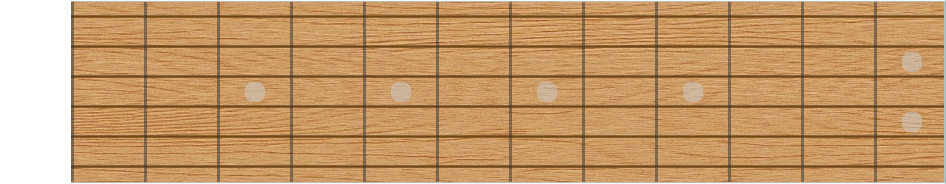
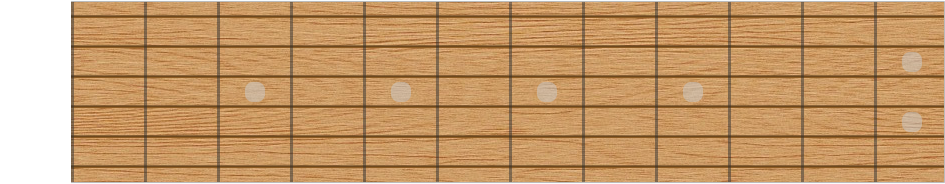
display selected notes name

Changed region(s): [[0.982, 0.0272, 1.0, 0.9783]]

diff --git a/src/ChordsSearch.jsx b/src/ChordsSearch.jsx
@@ -1,4 +1,4 @@
-import React, {Component, useMemo} from 'react'
+import React, { Component } from 'react'
 import { SearchCheckboxes } from './SearchCheckboxes'
 import { GuitarNeckBasic } from './GuitarNeckBasic'
 import { SearchChordsToFretApi } from './SearchChordsToFretApi'
@@ -122,6 +122,7 @@ class ChordDetails extends React.Component {
       const rows = MakeChordDetails (this.props.chord)
       const special = ChordExplanations(this.props.chord.split(' ')[1])
       return  <React.Fragment>
+              <h2 className='mt-4 text-center'>{this.props.chord}</h2>
               <table className="table mt-4">
                 <thead>
                   <tr>
@@ -147,7 +148,7 @@ export class ChordsSearch extends React.Component {
       selectedNotes: [],
       selectedNeckNotes: {1: null, 2: null, 3: null, 4: null, 5: null, 6: null},
       selectedChord: [],
-      fretboardMode: false
+      fretboardMode: true
     })
     this.handleChange = this.handleChange.bind(this)
     this.handleNeckClick = this.handleNeckClick.bind(this)
@@ -201,26 +202,32 @@ export class ChordsSearch extends React.Component {
     } else {
       selectedNotes = this.state.selectedNotes
     }
+    const noteLabelStyle = this.state.fretboardMode ? 'not-selected' : 'selected'
+    const fretboardLabelStyle = this.state.fretboardMode ? 'selected' : 'not-selected'
     const apiResultStyle = this.state.fretboardMode ? 'mini-display' : 'max-display'
     return <div className='container chords-search-result'>
-      <div className='search-checkboxes'>
-        {!this.state.fretboardMode && <SearchCheckboxes onClick={this.handleRemoveClick} selectedNotes={this.state.selectedNotes} onChange={this.handleChange}></SearchCheckboxes>}
-      </div>
-      <div className='search-container'>
-        <div className='search-note-left-side'>
-          <div className='fretboard-display-checkbox'>
-            <input onChange={this.handleCheck} className="form-check-input" checked={this.state.fretboardMode} type="checkbox" value="" id="flexCheckDefault" name='display-fretboard'/>
-            <label htmlFor='display-fretboard'>Fretboard</label>
-          </div>
-            <div className='chords-search-result'>
-            {this.state.fretboardMode && <GuitarNeckBasic selectedNotes={this.state.selectedNotes} onChange={this.handleNeckClick}/>}
-            <SearchChordsToFretApi style={apiResultStyle} selectedNotes={selectedNotes} onClick={this.handleClick} fretboardMode={this.state.fretboardMode}/>
+            <div className='notes-checkbox-container'>
+              <label className={fretboardLabelStyle} id='notes-checkbox-label' htmlFor="notes-checkbox">FRETBOARD</label>
+              <label className="switch">
+                <input type="checkbox" className="switch" id="notes-checkbox" name="notes-checkbox" checked={!this.state.fretboardMode} onChange={this.handleCheck}></input>
+                <span className="slider round"></span>
+              </label>
+              <label className={noteLabelStyle} id='notes-checkbox-label' htmlFor="notes-checkbox">NOTES</label>
             </div>
+          <div className='search-checkboxes'>
+            {!this.state.fretboardMode && <SearchCheckboxes onClick={this.handleRemoveClick} selectedNotes={this.state.selectedNotes} onChange={this.handleChange}></SearchCheckboxes>}
           </div>
-          <div className='search-note-left-side'>
-            <ChordDetails chord={this.state.selectedChord}/>
-          </div>
+          <div className='search-container'>
+            <div className='search-note-left-side'>
+                <div className='chords-search-result'>
+                {this.state.fretboardMode && <GuitarNeckBasic selectedNotes={this.state.selectedNotes} onChange={this.handleNeckClick}/>}
+                <SearchChordsToFretApi style={apiResultStyle} selectedNotes={selectedNotes} onClick={this.handleClick} fretboardMode={this.state.fretboardMode}/>
+                </div>
+              </div>
+              <div className='search-note-left-side mb-4'>
+                <ChordDetails chord={this.state.selectedChord}/>
+              </div>
+            </div>
         </div>
-    </div>
   }
 }

diff --git a/src/GuitarNeckBasic.jsx b/src/GuitarNeckBasic.jsx
@@ -1,5 +1,5 @@
 import React from 'react'
-import { NOTES, GUITAR_TUNING, SCALES_LIST, INTERVALS_NAMES } from './data'
+import { NOTES, GUITAR_TUNING } from './data'
 import './stylesheets/guitar_neck.css'
 import { TuningDropDown } from './TuningDropDown'
 
@@ -31,12 +31,15 @@ class NotesRows extends React.Component {
     const selected_note_index = this.props.guitarString
     const ordered_notes = [...NOTES.slice(selected_note_index), ...NOTES.slice(0, selected_note_index), NOTES[selected_note_index]]
     const rows = []
-    // const selectedNote = this.props.selectedNotes
     ordered_notes.forEach((note, index) => {
       const key = `${note}-${index}`
       const id = `${note},${this.props.guitar_string_num},${index}`
       const style = this.state.selectedNote === id ? 'note-selected' : ''
-      rows.push(<th id={id} className={style} key={key} onClick={this.handleClick}>O</th>)
+      if (id === this.state.selectedNote) {
+        rows.push(<th id={id} className={style} key={key} onClick={this.handleClick}>{note}</th>)
+      } else {
+        rows.push(<th id={id} className={style} key={key} onClick={this.handleClick}>O</th>)
+      }
     })
     return <tbody>
           <tr>

diff --git a/src/stylesheets/chords_search.css b/src/stylesheets/chords_search.css
@@ -8,11 +8,6 @@
   margin: 0 auto;
 }
 
-.chords-search-result .fretboard-display-checkbox {
-  max-width: 700px;
-  margin: 0 auto;
-}
-
 .chords-search-result .basic-guitar-neck-container {
   max-width: 700px;
   margin: 0 auto;
